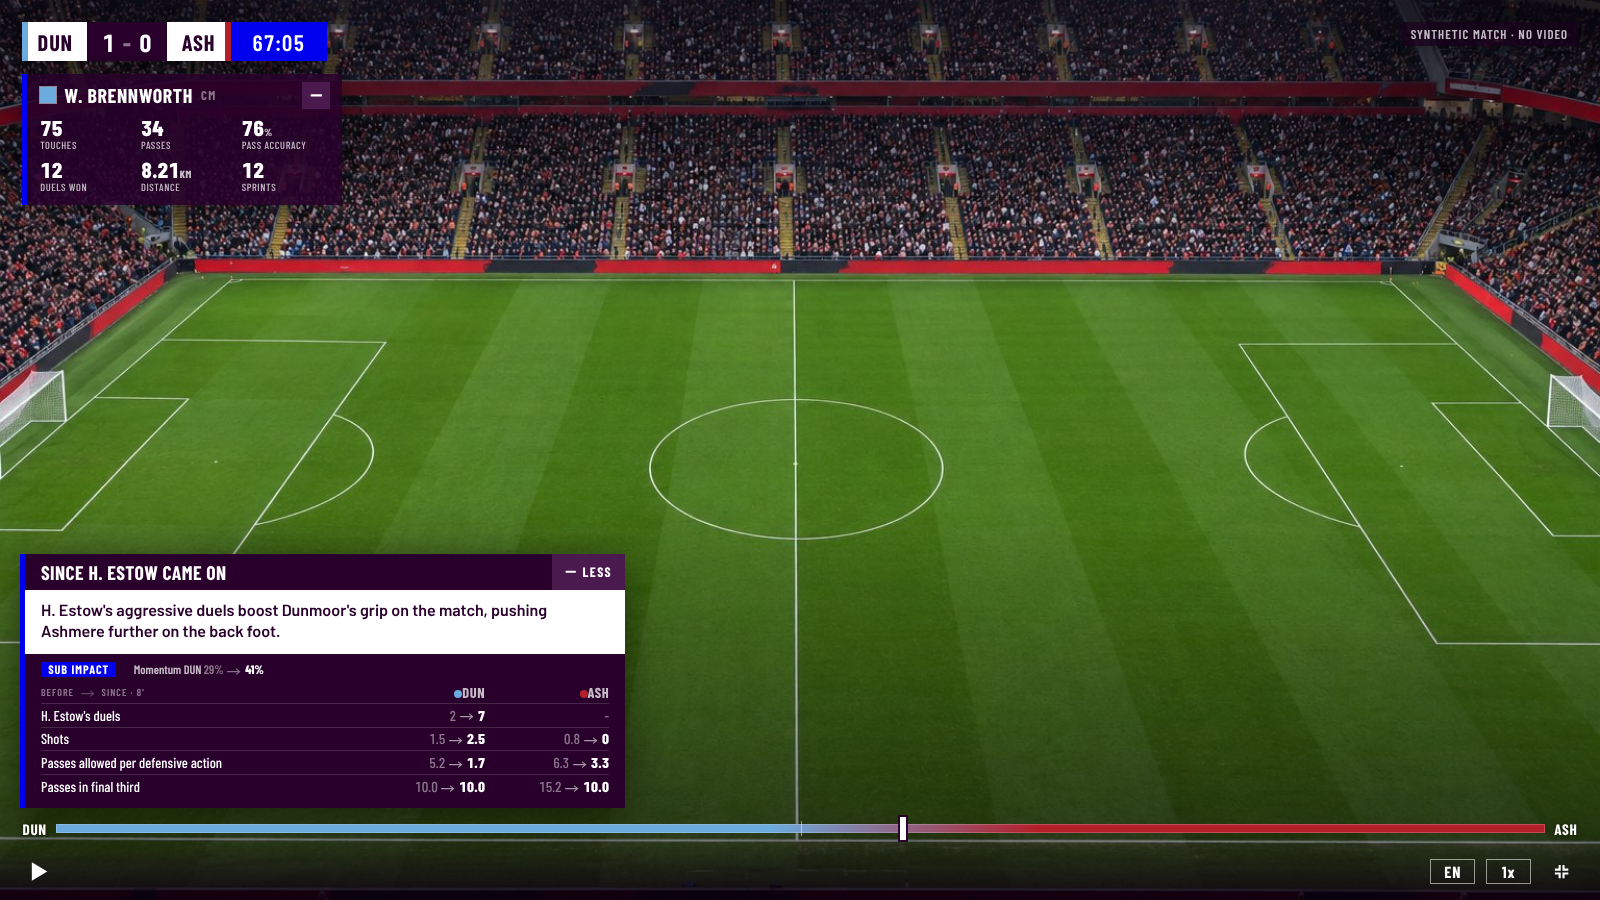
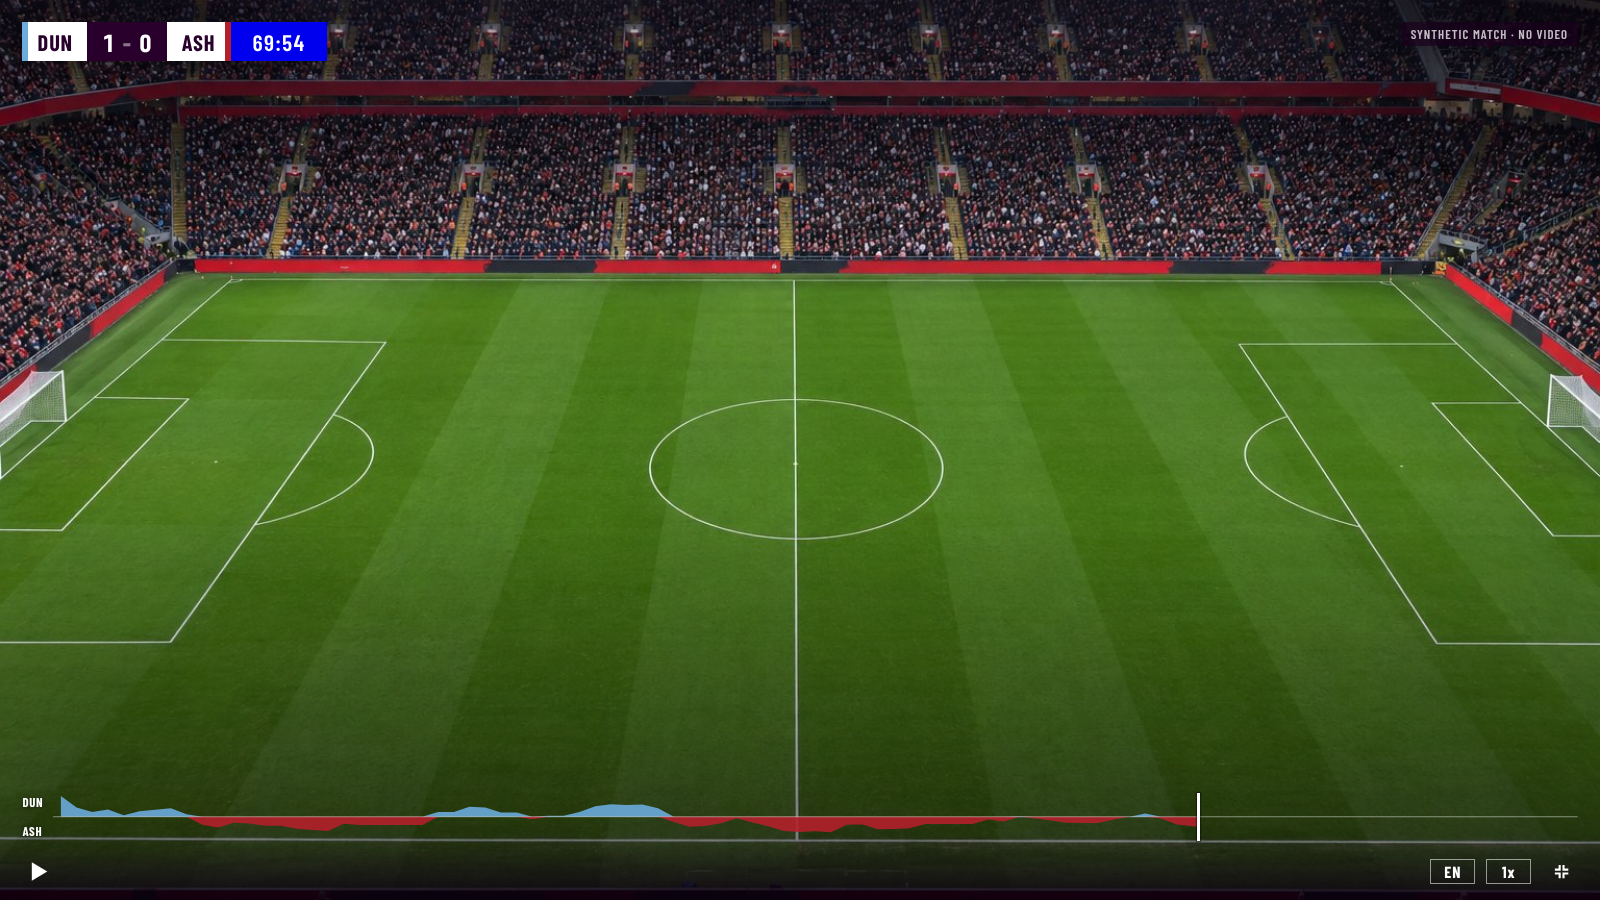
Notifications for goals, substitutions, red cards and momentum shifts; momentum history in full screen
Claude-Session: https://claude.ai/code/session_01KoSuhyXbautwFTUwRvrKNJ

Changed region(s): [[0.0, 0.5911, 1.0, 0.9333], [0.0, 0.0311, 0.2188, 0.2489]]

diff --git a/web/app.js b/web/app.js
@@ -75,6 +75,8 @@
       neutral_note: "Cards speak to both sides.", fan_note: (c) => `Cards speak to ${c} fans.`, pick_player: "Tap a player to follow them.",
       gk: "Goalkeeper", def: "Defenders", mid: "Midfield", att: "Attack", bench: "Bench", came_on: "on",
       user_view: "User view", admin_view: "Admin view",
+      n_goal: "Goal", n_sub: "Substitution", n_red: "Red card", n_shift: "Momentum shift", n_big: "Big momentum shift",
+      n_on_off: (on, off) => `${on} on · ${off} off`, n_towards: (c) => `towards ${c}`,
       win_back: (c) => `How ${c} win it back`, keep_going: (c) => `How ${c} keep it going`, analysis: "MatchLens analysis",
       at: "At", last15: "Last 15'", modelled: "* modelled from tracking-style data.", tap_club: "Tap a club for its players.",
       back: "Back", not_on: "Not on the pitch yet.", on: "on", sub: "sub", passes: "passes",
@@ -91,6 +93,8 @@
       neutral_note: "Las tarjetas hablan a los dos equipos.", fan_note: (c) => `Las tarjetas hablan a la afición de ${c}.`, pick_player: "Toca un jugador para seguirlo.",
       gk: "Portero", def: "Defensas", mid: "Centrocampistas", att: "Delanteros", bench: "Banquillo", came_on: "entra",
       user_view: "Vista usuario", admin_view: "Vista admin",
+      n_goal: "Gol", n_sub: "Cambio", n_red: "Tarjeta roja", n_shift: "Cambio de inercia", n_big: "Gran cambio de inercia",
+      n_on_off: (on, off) => `entra ${on} · sale ${off}`, n_towards: (c) => `a favor de ${c}`,
       win_back: (c) => `Cómo recupera ${c} el control`, keep_going: (c) => `Cómo sigue ${c} mandando`, analysis: "Análisis MatchLens",
       at: "Min.", last15: "Últ. 15'", modelled: "* estimado con datos de seguimiento.", tap_club: "Toca un club para ver sus jugadores.",
       back: "Volver", not_on: "Todavía no ha salido al campo.", on: "entra", sub: "suplente", passes: "pases",
@@ -231,6 +235,7 @@
     hideCard(true);
     hideRecap();
     hideTag();
+    seekNotes();
     drawFollow();
     render();
     renderPanel();
@@ -264,13 +269,17 @@
     const pts = bundle.momentum.map((v, m) => [m + 0.5, 50 - (v - 50)]);
     const above = pts.map(([x, y]) => `${x},${Math.min(y, 50)}`).join(" ");
     const below = pts.map(([x, y]) => `${x},${Math.max(y, 50)}`).join(" ");
-    svg.innerHTML = `
-      <defs><clipPath id="played"><rect id="playedRect" x="0" y="0" width="0" height="100"/></clipPath></defs>
-      <g clip-path="url(#played)">
+    const chart = (id) => `
+      <defs><clipPath id="${id}"><rect class="played-rect" x="0" y="0" width="0" height="100"/></clipPath></defs>
+      <g clip-path="url(#${id})">
         <polygon class="tl-area-home" points="0.5,50 ${above} ${pts.length - 0.5},50"/>
         <polygon class="tl-area-away" points="0.5,50 ${below} ${pts.length - 0.5},50"/>
       </g>
       <line class="tl-zero" x1="0" x2="${n}" y1="50" y2="50" vector-effect="non-scaling-stroke"/>`;
+    svg.innerHTML = chart("played");
+    // the same history, slim, along the bottom of the feed in full screen
+    $("miniChart").setAttribute("viewBox", `0 0 ${n} 100`);
+    $("miniChart").innerHTML = chart("playedMini");
     $("tlHt").style.left = xOf(bundle.half_time_m);
     // ticks sit on the broadcast clock, so the second half starts at the real restart
     const tickM = (c) => (c < 45 ? c : bundle.half_time_m + (c - 45));
@@ -298,6 +307,7 @@
     nextCard = bundle.cards.findIndex((c) => c.at > t);
     if (nextCard < 0) nextCard = bundle.cards.length;
     seekMoments();
+    seekNotes();
     hideCard(true);
     hideTag();
     if (t < bundle.minutes) hideRecap();
@@ -350,13 +360,12 @@
     if (setText(aEl, a) && t > 0) bump(aEl);
 
     $("moTrack").style.setProperty("--m", `${momentumAt(t)}%`);
-    $("moMini").style.setProperty("--m", `${momentumAt(t)}%`);
+    $("miniHead").style.left = `${(100 * t) / bundle.minutes}%`;
 
     const p = (100 * t) / bundle.minutes;
     $("tlProgress").style.width = `${p}%`;
     $("tlHead").style.left = `${p}%`;
-    const rect = document.getElementById("playedRect");
-    if (rect) rect.setAttribute("width", String(t));
+    for (const rect of document.querySelectorAll(".played-rect")) rect.setAttribute("width", String(t));
     for (const el of document.querySelectorAll(".tl-ev")) {
       const done = Number(el.dataset.m) + 0.5 <= t;
       el.classList.toggle("done", done);
@@ -1256,10 +1265,12 @@
       }
       if (!showing && nextCard < bundle.cards.length && t >= bundle.cards[nextCard].at) {
         cardOpen = params.get("open") === "1"; // each card comes up simple
+        momentumNote(bundle.cards[nextCard]);
         showCard(bundle.cards[nextCard]);
         nextCard++;
       }
       moments(now);
+      notes(now);
       if (t >= bundle.minutes && !cardUntil) {
         setPlaying(false);
         showRecap();
@@ -1267,6 +1278,76 @@
       render();
     }
     requestAnimationFrame(frame);
+  }
+
+  // ---------- notifications: what just happened, in the middle of the feed ----------
+  // With no pictures to watch, goals, substitutions and red cards pop up as they happen, and a
+  // momentum shift pops up with the card that explains it, so the card never arrives cold.
+  // Only what the clock has passed is shown, so a generated match can't give anything away early.
+  const NOTE_SECONDS = 3.6;
+  const BIG_SHIFT = 40; // points of the home side's momentum share between before and now
+  let noteQueue = []; // notes due, waiting for the one on screen to go
+  let noteUntil = 0;
+  let noteDone = new Set(); // timeline events already shown (or skipped by a seek)
+  const noteKey = (e) => `${e.kind}:${e.m}:${e.team}:${e.player}`;
+  const NOTE_KINDS = ["goal", "substitution", "red_card"];
+
+  function seekNotes() {
+    noteQueue = [];
+    noteDone = new Set(bundle.timeline.filter((e) => e.m + 0.5 <= t).map(noteKey));
+    hideNote();
+  }
+
+  function eventNote(e) {
+    const team = teamById(e.team);
+    if (e.kind === "goal") return { kind: "goal", team, big: `${w("n_goal")} · ${team.short_name}`, small: e.player };
+    if (e.kind === "red_card") return { kind: "red", team, big: `${w("n_red")} · ${team.short_name}`, small: e.player };
+    return { kind: "sub", team, big: `${w("n_sub")} · ${team.short_name}`, small: w("n_on_off", e.player, e.player_off) };
+  }
+
+  // the card's own momentum, before its anchor and now: which way, and how far
+  function momentumNote(c) {
+    if (!c || !["shift", "recovery"].includes(c.kind) || !c.momentum) return;
+    const swing = c.momentum.now - c.momentum.before;
+    const [home, away] = bundle.teams;
+    const team = swing >= 0 ? home : away;
+    const big = Math.abs(swing) >= BIG_SHIFT;
+    noteQueue.unshift({ kind: big ? "shift big" : "shift", team, big: w(big ? "n_big" : "n_shift"), small: w("n_towards", team.short_name) });
+    if (noteUntil) noteUntil = 0; // the card is here now: its context goes up straight away
+  }
+
+  function notes(now) {
+    for (const e of bundle.timeline) {
+      if (!NOTE_KINDS.includes(e.kind) || e.m + 0.5 > t || noteDone.has(noteKey(e))) continue;
+      noteDone.add(noteKey(e));
+      noteQueue.push(eventNote(e));
+    }
+    if (noteUntil && now < noteUntil) return;
+    if (noteQueue.length) showNote(noteQueue.shift(), now);
+    else if (noteUntil) hideNote();
+  }
+
+  const SUB_ICON =
+    '<svg viewBox="0 0 20 20" aria-hidden="true"><path d="M6 15V5M6 5l-3 3M6 5l3 3" stroke="#00ff85" stroke-width="2.2" fill="none" stroke-linecap="round"/><path d="M14 5v10M14 15l-3-3M14 15l3-3" stroke="#e90052" stroke-width="2.2" fill="none" stroke-linecap="round"/></svg>';
+  const NOTE_ICONS = { goal: ICONS.goal, red: ICONS.red_card, sub: SUB_ICON, shift: ICONS.shift, "shift big": ICONS.shift };
+
+  function showNote(n, now) {
+    const el = $("note");
+    const side = n.team === bundle.teams[0] ? "var(--home)" : "var(--away)";
+    el.className = `note-pop kind-${n.kind.replace(" ", " kind-")}`;
+    el.style.setProperty("--club", side);
+    el.innerHTML = `<span class="np-icon">${NOTE_ICONS[n.kind]}</span><span class="np-text"><b>${esc(n.big)}</b>${n.small ? `<span>${esc(n.small)}</span>` : ""}</span>`;
+    el.hidden = false;
+    void el.offsetWidth;
+    el.classList.add("on");
+    noteUntil = now + NOTE_SECONDS * 1000;
+  }
+
+  function hideNote() {
+    noteUntil = 0;
+    const el = $("note");
+    el.classList.remove("on");
+    el.hidden = true;
   }
 
   // follow mode: pop the next tag when the clock reaches it; one at a time

diff --git a/web/style.css b/web/style.css
@@ -810,9 +810,47 @@ body { display: grid; place-items: center; overflow: hidden; }
   letter-spacing: 0.05em;
   text-shadow: 0 0 0.4cqw rgba(0, 0, 0, 0.6);
 }
-.is-full .mo-mini .grad-bar { flex: 1; height: 0.55cqw; transition: --m 0.9s var(--ease); }
-.is-full .card, .is-full .recap { bottom: 6.4cqw; }
+.mini-keys { display: flex; flex-direction: column; justify-content: space-between; height: 2.6cqw; font-size: 0.8cqw; line-height: 1; }
+.mini-chart { position: relative; flex: 1; height: 2.6cqw; }
+.mini-chart svg { position: absolute; inset: 0; width: 100%; height: 100%; overflow: visible; }
+.mini-chart .tl-area-home, .mini-chart .tl-area-away { opacity: 0.9; }
+.mini-chart .tl-zero { stroke: rgba(255, 255, 255, 0.45); }
+.mini-head { position: absolute; top: -0.2cqw; bottom: -0.2cqw; width: 0.2cqw; margin-left: -0.1cqw; background: var(--secondary); box-shadow: 0 0 0 0.08cqw rgba(0, 0, 0, 0.4); }
+.is-full .card, .is-full .recap { bottom: 7.6cqw; }
 #fullBtn { display: grid; place-items: center; }
 #fullBtn svg { width: 1.2cqw; height: 1.2cqw; }
 .vbar #fullBtn { width: 2.4cqw; height: 2.4cqw; padding: 0; }
 .controls #fullBtn svg { width: 0.9cqw; height: 0.9cqw; }
+
+/* ---------- notifications: what just happened, in the middle of the feed ---------- */
+.note-pop {
+  zoom: 0.9;
+  position: absolute;
+  left: 50%;
+  top: 38%;
+  transform: translate(-50%, -50%);
+  display: flex;
+  align-items: stretch;
+  max-width: 40cqw;
+  background: var(--secondary);
+  color: var(--primary);
+  border-left: 0.5cqw solid var(--club, var(--accent));
+  box-shadow: 0 0.4cqw 1.6cqw rgba(0, 0, 0, 0.5);
+  font-family: var(--display);
+  pointer-events: none;
+}
+.note-pop[hidden] { display: none; }
+.note-pop.on { animation: note-in 0.45s var(--ease) both; }
+@keyframes note-in { from { opacity: 0; transform: translate(-50%, -50%) scale(0.85); } to { opacity: 1; transform: translate(-50%, -50%); } }
+.np-icon { display: grid; place-items: center; width: 3.4cqw; background: var(--primary); color: var(--secondary); }
+.np-icon svg { width: 1.8cqw; height: 1.8cqw; }
+.np-text { display: flex; flex-direction: column; justify-content: center; padding: 0.5cqw 1.2cqw 0.55cqw; }
+.np-text b { font-weight: 800; font-size: 1.7cqw; line-height: 1.05; text-transform: uppercase; letter-spacing: 0.02em; white-space: nowrap; }
+.np-text span { font-weight: 700; font-size: 1.05cqw; letter-spacing: 0.03em; opacity: 0.75; white-space: nowrap; }
+/* a goal, and a big shift, take the scoring club's colour */
+.note-pop.kind-goal .np-icon, .note-pop.kind-big .np-icon { background: var(--club); }
+.note-pop.kind-goal, .note-pop.kind-big { background: var(--primary); color: var(--secondary); border-left-color: var(--accent); }
+.note-pop.kind-goal .np-text b, .note-pop.kind-big .np-text b { font-size: 2.1cqw; }
+.note-pop.kind-red .np-icon { background: var(--pink); }
+.note-pop.kind-shift .np-icon { color: var(--club); }
+.note-pop.kind-big .np-icon { color: var(--secondary); }

diff --git a/web/index.html b/web/index.html
@@ -31,6 +31,9 @@
       <div class="follow" id="follow" aria-live="polite" hidden></div>
       <div class="tag" id="tag" aria-live="polite" hidden></div>
 
+      <!-- what just happened: goals, substitutions, red cards and momentum shifts -->
+      <div class="note-pop" id="note" role="status" aria-live="polite" hidden></div>
+
       <!-- the pop-up card, as a lower third over the feed -->
       <div class="card" id="card" aria-live="polite" hidden></div>
 
@@ -38,11 +41,10 @@
       <div class="recap" id="recap" aria-live="polite" hidden></div>
 
       <!-- user mode: the playback controls sit in the feed, where a video player keeps them -->
-      <!-- full screen: the momentum bar comes into the feed -->
+      <!-- full screen: the momentum history comes into the feed, above and below its line -->
       <div class="mo-mini" aria-hidden="true">
-        <span id="miniHome"></span>
-        <div class="grad-bar" id="moMini"><div class="gb-mid"></div><div class="gb-now"></div></div>
-        <span id="miniAway"></span>
+        <span class="mini-keys"><span id="miniHome"></span><span id="miniAway"></span></span>
+        <div class="mini-chart"><svg id="miniChart" preserveAspectRatio="none"></svg><div class="mini-head" id="miniHead"></div></div>
       </div>
 
       <div class="vbar" id="vbar">

diff --git a/docs/broadcast.md b/docs/broadcast.md
@@ -12,7 +12,7 @@
 
 The screen in `web/` plays a match on a condensed clock. By default 1 match minute takes 1.6 seconds, so a full match runs about 2.5 minutes. It is laid out like a stream, over a photo of a stadium. There are two screens:
 
-- **User** (the default): for fans. The right side is a picker instead of stats: **Your club** as crests for the two clubs playing (and Neutral) with the name under each, the chosen one lifted and highlighted, and **Your player**: choose either team and its squad appears on a pitch, fantasy-football style, one line each for goalkeeper, defenders, midfield and attack, with the bench below. Each player is a card with a blank profile picture, his position and his name; the chosen one is highlighted and followed. Play, the speed, the language and full screen sit in a control bar along the bottom of the feed, as on a video player, and fade while the match plays. The user screen plays the match it was opened on (`?match=`); the match list and Generate match are on the admin screen. Full screen fills the screen with the feed, with the momentum bar along its bottom; the cards and strips keep the size they had, rather than growing with the monitor. The crests are drawn by the page from each club's colours (a shape, a pattern and an initial); there are no real marks or photos.
+- **User** (the default): for fans. The right side is a picker instead of stats: **Your club** as crests for the two clubs playing (and Neutral) with the name under each, the chosen one lifted and highlighted, and **Your player**: choose either team and its squad appears on a pitch, fantasy-football style, one line each for goalkeeper, defenders, midfield and attack, with the bench below. Each player is a card with a blank profile picture, his position and his name; the chosen one is highlighted and followed. Play, the speed, the language and full screen sit in a control bar along the bottom of the feed, as on a video player, and fade while the match plays. The user screen plays the match it was opened on (`?match=`); the match list and Generate match are on the admin screen. Full screen fills the screen with the feed, with the momentum history (above the line for the home side, below for the away side) slim along its bottom; the cards and strips keep the size they had, rather than growing with the monitor. The crests are drawn by the page from each club's colours (a shape, a pattern and an initial); there are no real marks or photos.
 - **Admin** (`?mode=admin`, the button in either screen, or M): the operator's screen, described below, with the stats tabs and what the agents did.
 
 Both screens share the feed, the cards and the momentum bar:
@@ -24,6 +24,7 @@ Both screens share the feed, the cards and the momentum bar:
     - one line saying what the numbers mean for the game, written for the viewer's club ([explainer.md](explainer.md));
     - one big number, against the same team before the anchor. For a substitute, the comparison is with the player they replaced. Where it can, the card pairs two stats that explain each other, rather than showing a lone possession figure. Each number reads as one line and one path: a colour chip for the club, then "Brackenford's progressive passes" (or "Corvcombe's distance vs Brennow" for a substitute), then the number before (small and faded), an arrow and the number now (big and solid). The numbers show which way it went, so there are no extra symbols, and the momentum bar along the bottom of the screen shows momentum, so the card doesn't repeat it.
     - an **Expand** button. The card starts simple; Expand keeps the line and puts a short table where the big number was: the cause the agents settled on, momentum before and now, and four stats for both clubs before the anchor and since (the card's own stats first, then the ones that moved most). An open card stays up until it is closed.
+  - **notifications**, in the middle of the feed, since there is no picture to watch: "Goal · Dunmoor" with the scorer, every substitution (who came on and off) and every red card, as they happen, and with each momentum card a "Momentum shift" or "Big momentum shift" (a swing of 40 points or more in the home side's share) towards the club that gained it, so the card never arrives cold. One at a time, a few seconds each, in English or Spanish, only for what the clock has reached.
   - **the MatchLens analysis**, which follows a card when it leaves: what a club could do about the momentum, the take fans argue about. The side that lost it gets "How Dunmoor win it back" ("Dunmoor need to push the line back up and stop inviting Calderwick on"); the side that has it gets "How Calderwick keep it going". A fan of either club sees their own club's; a neutral sees the side that lost momentum. Under the line is the stat behind it. Every idea is backed by a stat in the match ([agents.md](agents.md), step 5).
   - **the full-time recap**, which takes over the feed at the final whistle (or press F): the score and one headline for the viewer's club, who had the game in each quarter-hour (the home side's share of momentum, as a bar in the two clubs' colours), the three turning points (the cards whose momentum swung most), full-time stat pairs as two-sided bars, and a standout player for each club with the stat that sets them apart. Expand adds xG and duels won, the momentum swing at each turning point, and the first half against the second.
   - **follow a player**, when a player is followed: a strip under the score with his name and three live numbers (touches, passes, distance); its Expand button adds pass accuracy, duels won and sprints. Name tags pop out beside it when something happens (a goal, an assist, a shot, a card, coming on or off) or a running total reaches a set threshold (5 and 10 km covered, 10, 20 and 30 sprints, 25, 50 and 75 passes, 5 and 10 duels won, 5, 10 and 15 defensive actions). His moments sit on the timeline, a card stat about him is outlined, and at full time the recap shows where he finished in his team on each stat and his touches across the match.
